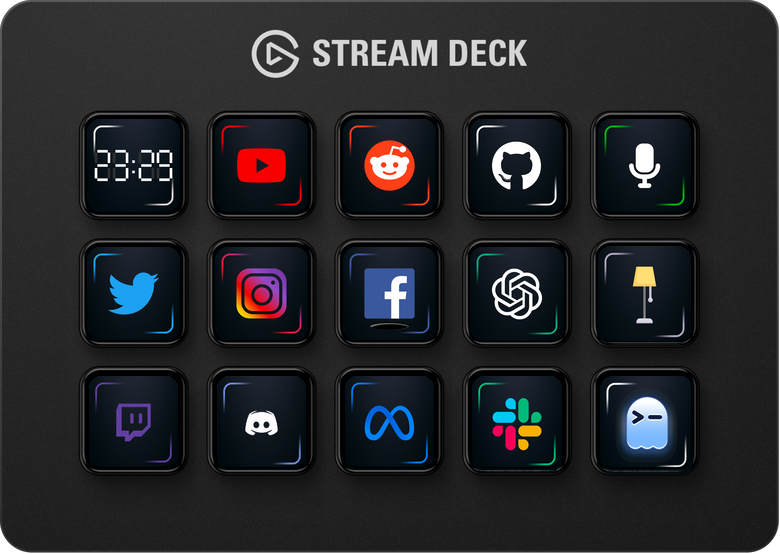
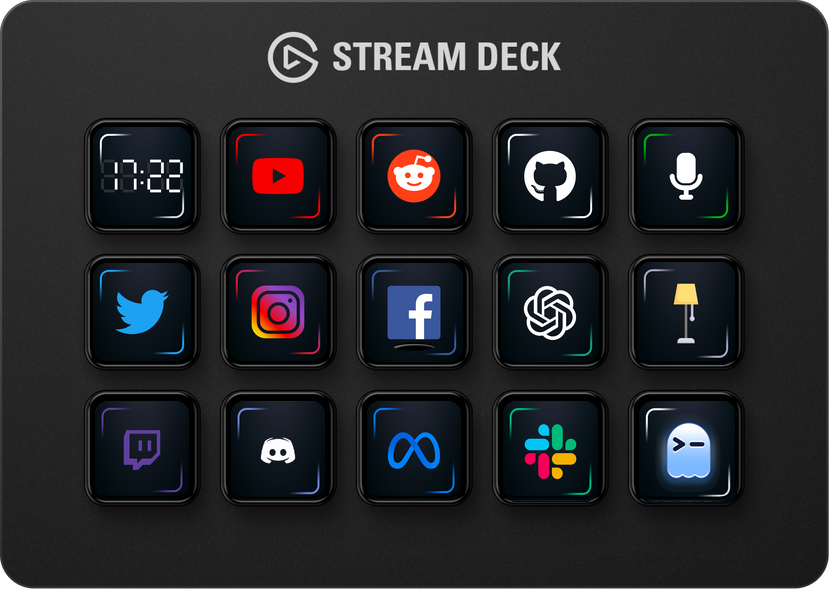
feat: adjust preview dimensions for improved layout

diff --git a/src/bin/streamrs-preview.rs b/src/bin/streamrs-preview.rs
@@ -24,8 +24,9 @@ const TEMPLATE_RENDER_WIDTH: u32 = 1560;
 const TEMPLATE_RENDER_HEIGHT: u32 = 1108;
 const EMBEDDED_BLANK_LABEL: &str = "embedded:scripts/streamdeck.svg";
 const EMBEDDED_BLANK_SVG: &[u8] = include_bytes!("../../scripts/streamdeck.svg");
-const PREVIEW_WIDTH: u32 = 780;
-const PREVIEW_HEIGHT: u32 = 554;
+const PREVIEW_WIDTH: u32 = 830;
+const PREVIEW_HEIGHT: u32 =
+    (PREVIEW_WIDTH * TEMPLATE_RENDER_HEIGHT + TEMPLATE_RENDER_WIDTH / 2) / TEMPLATE_RENDER_WIDTH;
 const ICON_INSET: i32 = 8;
 const BOTTOM_ROW_Y_OFFSET: i32 = 0;
 const BOTTOM_ROW_EXTRA_INSET: i32 = 1;
